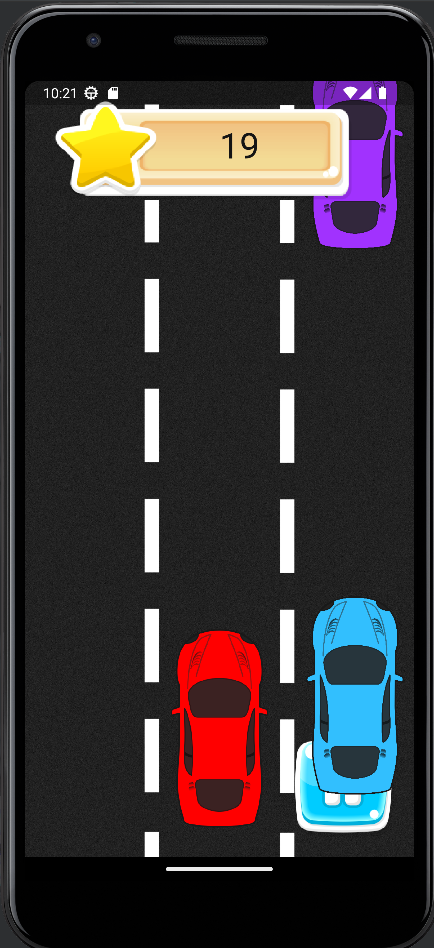
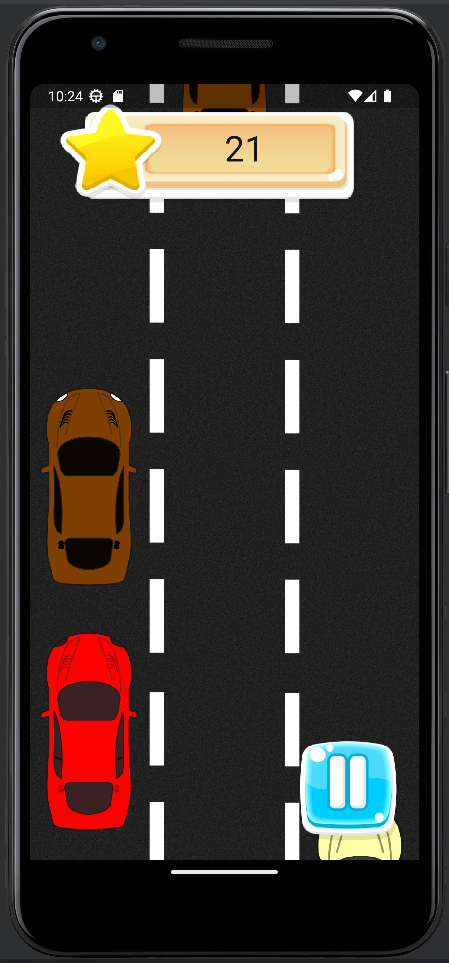
ui fix

diff --git a/lib/controllers/game.dart b/lib/controllers/game.dart
@@ -188,7 +188,7 @@ Have fun."""
         posY: screenHeight - 120,
         onClick: pause,
         fileName: "Button_pause.png"
-    );
+    )..priority = 1;
     await add(pauseButton);
     buttons.add(pauseButton);
   }
